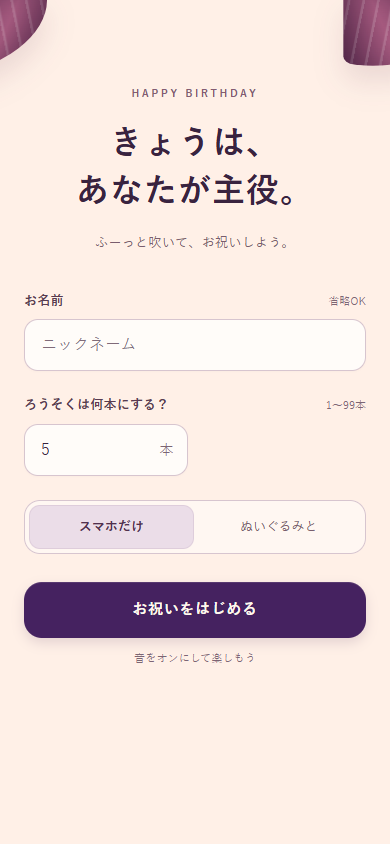
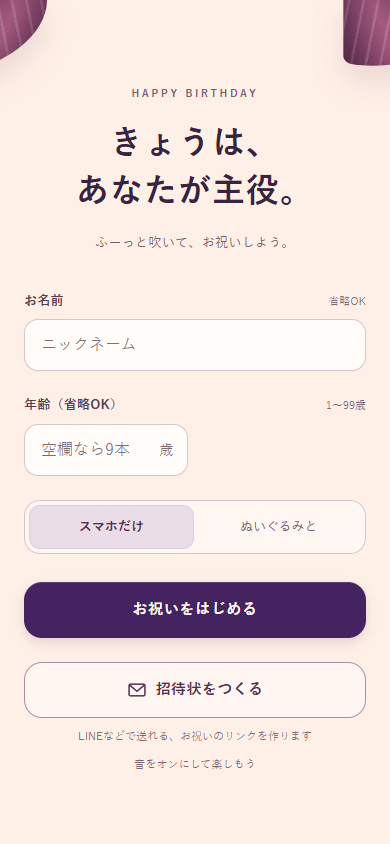
Unify invitation inputs and refine song recipient

diff --git a/test/app.test.js b/test/app.test.js
@@ -15,7 +15,9 @@ class Element {
     this.classes = new Set();
     this.classList = {add: c => this.classes.add(c), remove: c => this.classes.delete(c), contains: c => this.classes.has(c)};
   }
-  addEventListener(name, callback) { this.events[name] = callback; }
+  get textContent() { return this.children.length ? this.children.map(child => child.textContent ?? '').join('') : this._textContent; }
+  set textContent(value) { this._textContent = value; this.children = []; }
+  addEventListener(name, callback) { const previous = this.events[name]; this.events[name] = previous ? (...args) => { previous(...args); callback(...args); } : callback; }
   setAttribute(key, value) { this.attributes[key] = value; }
   append(child) { this.children.push(child); }
   replaceChildren(...children) { this.children = children; }
@@ -24,6 +26,8 @@ class Element {
 function harness(getUserMedia, withAudio = true, songDuration = 0, pageUrl = 'https://example.com/happybirthday-tome/', withMessages = false) {
   const els = new Map();
   const get = id => { if (!els.has(id)) els.set(id, new Element()); return els.get(id); };
+  get('song-recipient').append(get('recipient-name'));
+  get('song-recipient').append(get('recipient-suffix'));
   const raf = new Map();
   const timers = new Map();
   const contexts = [];
@@ -154,7 +158,7 @@ test('hide releases microphone; explicit resume keeps remaining candle count', a
   const mics = [microphone(), microphone()]; let index = 0;
   const app = harness(() => Promise.resolve(mics[index++].stream));
   app.submit(); await flush(); app.get('cake-button').click();
-  assert.equal(app.get('remaining').textContent, 3);
+  assert.equal(app.get('remaining').textContent, 6);
   app.hide();
   assert.equal(mics[0].track.stopped, true);
   assert.equal(app.contexts[0].state, 'closed');
@@ -162,7 +166,7 @@ test('hide releases microphone; explicit resume keeps remaining candle count', a
   assert.equal(app.requested(), 1);
   app.get('resume').click(); await flush();
   assert.equal(app.requested(), 2);
-  assert.equal(app.get('remaining').textContent, 3);
+  assert.equal(app.get('remaining').textContent, 6);
   assert.equal(app.get('cake-button').disabled, false);
 });
 test('microphone disconnection switches to taps', async () => {
@@ -264,7 +268,7 @@ test('song keeps microphone cues and detection off until the song ends', async (
   assert.equal(app.get('blow-cue').hidden, true);
   assert.equal(app.get('volume-area').hidden, true);
   app.frames(20, .5);
-  assert.equal(app.get('remaining').textContent, 5);
+  assert.equal(app.get('remaining').textContent, 9);
   app.runTimer(SONG.durationMs);
   assert.equal(app.get('blow-cue').hidden, false);
   assert.equal(app.get('volume-area').hidden, false);
@@ -283,6 +287,8 @@ test('plush mode needs no phone microphone and celebrates on the micro:bit timel
   assert.equal(app.get('song-lyrics').textContent, SONG.lyrics[0][1]);
   app.runTimer(6100);
   assert.equal(app.get('song-lyrics').textContent, SONG.lyrics[2][1].replace('{name}', 'けいこ'));
+  assert.equal(app.get('song-lyrics').children[1].className, 'lyric-name');
+  assert.equal(app.get('song-lyrics').children[1].textContent, 'けいこ');
   app.runTimer(PLUSH_SONG.durationMs + 100);
   assert.equal(app.get('song-lyrics').textContent, 'もうすぐ\nふーっ！');
   app.runTimer(PLUSH_SONG.durationMs + 1100);
@@ -466,11 +472,13 @@ test('completion message uses the entered name, replaces the wish copy, and caps
     if (name === 'けいこ') assert.match(message, /けいこさん/);
   }
 });
-test('reference copy is editable HTML, the candle count stays required, and bubble and count have one parent', async () => {
+test('reference copy uses a shared optional age field and a direct invitation action', async () => {
   const html = await readFile(new URL('../dist/index.html', import.meta.url), 'utf8');
-  for (const text of ['HAPPY BIRTHDAY', 'きょうは、', 'あなたが主役。', 'お名前', '省略OK', 'ろうそくは何本にする？', '1〜99本', 'お祝いをはじめる', '今日の主役へ', '願いごと、決まった？']) assert.ok(html.replace(/<[^>]+>/g, '').includes(text));
+  for (const text of ['HAPPY BIRTHDAY', 'きょうは、', 'あなたが主役。', 'お名前', '年齢（省略OK）', '1〜99歳', 'お祝いをはじめる', '招待状をつくる', 'LINEなどで送れる、お祝いのリンクを作ります', '今日の主役へ', '願いごと、決まった？']) assert.ok(html.replace(/<[^>]+>/g, '').includes(text));
   assert.doesNotMatch(html, /0〜120|パーティスタート|YOUR BIRTHDAY CAKE/);
-  assert.match(html, /id="count"[^>]*min="1"[^>]*max="99"[^>]*required/);
+  assert.match(html, /id="count"[^>]*type="text"[^>]*inputmode="numeric"/);
+  assert.doesNotMatch(html, /invite-name|invite-age|invite-maker|<details|id="count"[^>]*required/);
+  assert.match(html, /id="start"[\s\S]*id="invite-create"[\s\S]*<svg/);
   assert.match(html, /id="song-recipient"/);
   assert.match(html, /id="blow-cue"[^]*id="bubble"[^]*id="counter"[^]*id="remaining"/);
   assert.equal((code.match(/ui\['blow-cue'\]\.hidden =/g) || []).length, 1);
@@ -485,25 +493,41 @@ test('reference copy is editable HTML, the candle count stays required, and bubb
   assert.match(css, /--color-background:[^;]+;[\s\S]*--color-text:[^;]+;[\s\S]*--color-accent:[^;]+;[\s\S]*--color-emphasis:[^;]+;/);
 });
 
-test('sender creates an encoded invitation without changing the required personal count', () => {
+test('shared fields create an encoded invitation and reject invalid ages', () => {
   const app = harness(() => { throw new Error('not needed'); });
-  app.get('invite-name').value = ' A&B ';
-  app.get('invite-age').value = '49';
+  app.name(' A&B ');
+  app.count(49);
+  app.get('mode-plush').checked = true;
   app.get('invite-create').click();
   assert.equal(app.get('invite-link').value, 'https://example.com/happybirthday-tome/invite.html#name=A%26B&age=49');
   assert.equal(app.get('invite-result').hidden, false);
-  app.get('invite-age').value = '1.5';
+  app.count('1.5');
   app.get('invite-create').click();
   assert.equal(app.get('invite-result').hidden, true);
-  assert.match(app.get('invite-error').textContent, /1〜99/);
-  assert.equal(app.get('count').value, '5');
+  assert.match(app.get('age-error').textContent, /1〜99/);
+  app.count('');
+  app.get('invite-create').click();
+  assert.equal(app.get('invite-link').value, 'https://example.com/happybirthday-tome/invite.html#name=A%26B');
+  assert.equal(app.document.body.dataset.scene, 'entry');
   assert.equal(app.requested(), 0);
+});
+
+test('blank age starts with nine candles, while a typed invalid age blocks the celebration', () => {
+  const blank = harness(() => Promise.reject());
+  blank.submit();
+  assert.equal(blank.get('candles').children.length, 9);
+  assert.equal(blank.document.body.dataset.scene, 'song');
+  const invalid = harness(() => Promise.reject());
+  invalid.count('100');
+  invalid.submit();
+  assert.equal(invalid.document.body.dataset.scene, 'entry');
+  assert.equal(invalid.get('age-error').hidden, false);
+  assert.equal(invalid.requested(), 0);
 });
 
 test('invitation never requests the microphone, keeps its recipient on reset, and clears nine default candles in three taps', () => {
   const app = harness(() => { throw new Error('invite must not request microphone'); }, true, 0, 'https://example.com/happybirthday-tome/invite.html#name=%E3%81%91%E3%81%84%E3%81%93');
   assert.equal(app.get('setup').hidden, true);
-  assert.equal(app.get('invite-maker').hidden, true);
   assert.equal(app.get('invite-card').hidden, false);
   assert.equal(app.get('invite-recipient').textContent, 'けいこさんへ');
   assert.equal(app.get('candles').children.length, 9);

diff --git a/dist/index.html b/dist/index.html
@@ -32,20 +32,13 @@
     <section class="message-card" aria-label="誕生日の準備とメッセージ">
       <form id="setup" autocomplete="off">
         <div class="field"><label for="name">お名前 <span>省略OK</span></label><input id="name" type="text" maxlength="30" autocomplete="off" spellcheck="false" placeholder="ニックネーム"></div>
-        <div class="field"><label for="count">ろうそくは何本にする？ <span>1〜99本</span></label><div class="number-field"><input id="count" type="number" min="1" max="99" step="1" value="5" inputmode="numeric" required autocomplete="off" aria-label="ろうそくの本数"><span>本</span></div></div><fieldset class="mode-switch"><legend>パーティーの相手</legend><label><input id="mode-phone" name="play-mode" type="radio" value="phone" checked><span>スマホだけ</span></label><label><input id="mode-plush" name="play-mode" type="radio" value="plush"><span>ぬいぐるみと</span></label></fieldset>
+        <div class="field"><label for="count">年齢（省略OK） <span>1〜99歳</span></label><div class="number-field"><input id="count" type="text" inputmode="numeric" autocomplete="off" aria-label="年齢" placeholder="空欄なら9本"><span>歳</span></div><p id="age-error" class="age-error" role="alert" hidden></p></div><fieldset class="mode-switch"><legend>パーティーの相手</legend><label><input id="mode-phone" name="play-mode" type="radio" value="phone" checked><span>スマホだけ</span></label><label><input id="mode-plush" name="play-mode" type="radio" value="plush"><span>ぬいぐるみと</span></label></fieldset>
         <button id="start" class="primary" type="submit">お祝いをはじめる</button>
+        <button id="invite-create" class="secondary invite-create" type="button"><svg viewBox="0 0 24 24" width="20" height="20" fill="none" stroke="currentColor" stroke-width="1.8" stroke-linecap="round" stroke-linejoin="round" aria-hidden="true"><rect x="2.5" y="5" width="19" height="14" rx="2"/><path d="m3.5 6.5 8.5 7 8.5-7"/></svg><span>招待状をつくる</span></button>
+        <p class="invite-description">LINEなどで送れる、お祝いのリンクを作ります</p>
+        <div id="invite-result" class="invite-result" hidden><label for="invite-link">招待状リンク</label><input id="invite-link" type="url" readonly><div class="invite-actions"><button id="invite-share" type="button" class="secondary" hidden>共有する</button><button id="invite-copy" type="button" class="secondary">コピー</button><button id="invite-try" type="button" class="secondary">自分で試す</button></div><p id="invite-feedback" class="invite-feedback" role="status" aria-live="polite"></p></div>
         <p class="sound-hint">音をオンにして楽しもう</p>
       </form>
-      <details id="invite-maker" class="invite-maker">
-        <summary>お持ち帰り用の招待状をつくる</summary>
-        <div class="invite-maker-content">
-          <div class="field"><label for="invite-name">お名前 <span>省略OK</span></label><input id="invite-name" type="text" maxlength="30" autocomplete="off" spellcheck="false" placeholder="お祝いする人の名前"><p class="field-note">「さん」は自動でつきます</p></div>
-          <div class="field"><label for="invite-age">年齢 <span>省略OK・1〜99歳</span></label><input id="invite-age" type="text" inputmode="numeric" autocomplete="off" placeholder="わからなければ空欄でOK"></div>
-          <button id="invite-create" class="secondary invite-create" type="button">リンクをつくる</button>
-          <p id="invite-error" class="invite-error" role="alert" hidden></p>
-          <div id="invite-result" class="invite-result" hidden><label for="invite-link">招待状リンク</label><input id="invite-link" type="url" readonly><div class="invite-actions"><button id="invite-share" type="button" class="secondary" hidden>共有する</button><button id="invite-copy" type="button" class="secondary">コピー</button><button id="invite-try" type="button" class="secondary">自分で試す</button></div><p id="invite-feedback" class="invite-feedback" role="status" aria-live="polite"></p></div>
-        </div>
-      </details>
       <div id="invite-card" class="invite-card" hidden><p class="invite-kicker">A LITTLE CELEBRATION FOR YOU</p><h1 id="invite-recipient">あなたへ</h1><p class="invite-intro">お誕生日のお祝いが届いています</p><img class="invite-cake" src="./assets/cake-base-v2.png" alt="" aria-hidden="true"><button id="invite-open" class="primary" type="button">お祝いをひらく</button><p class="invite-sound-hint">音をオンにして楽しんでね</p></div>
       <div id="started" class="started" hidden>
         <div class="card-copy">
@@ -56,7 +49,7 @@
     </section>
     <section class="stage" aria-label="バースデーケーキ">
       <div id="scene-copy" class="scene-copy" aria-live="polite"><div id="plush-prepare" class="plush-prepare" hidden><p><span>スマホをぬいぐるみの</span><span>そばに置いてね</span></p><button id="plush-pop" class="primary" type="button" aria-label="クラッカーを鳴らして、お祝いをはじめる"><img src="./assets/party-popper.svg" width="72" height="72" alt="" aria-hidden="true"><span>タップ</span></button><p class="plush-tip">音量を上げてからタップ</p></div>
-        <p id="song-recipient" class="song-recipient" hidden>あなたへ</p>
+        <p id="song-recipient" class="song-recipient" hidden><span id="recipient-name">あなた</span><span id="recipient-suffix">へ</span></p>
         <p id="song-lyrics" class="song-lyrics" hidden>歌詞はここに表示</p>
         <p id="plush-blow-note" class="plush-blow-note" hidden><span>ケーキの上の micro:bit に</span><span>息を吹きかけてね</span></p>
         <div id="blackout-copy" class="blackout-copy" hidden>しーっ。願いごとの時間。</div>

diff --git a/dist/invite.html b/dist/invite.html
@@ -34,20 +34,13 @@
     <section class="message-card" aria-label="誕生日の準備とメッセージ">
       <form id="setup" autocomplete="off">
         <div class="field"><label for="name">お名前 <span>省略OK</span></label><input id="name" type="text" maxlength="30" autocomplete="off" spellcheck="false" placeholder="ニックネーム"></div>
-        <div class="field"><label for="count">ろうそくは何本にする？ <span>1〜99本</span></label><div class="number-field"><input id="count" type="number" min="1" max="99" step="1" value="5" inputmode="numeric" required autocomplete="off" aria-label="ろうそくの本数"><span>本</span></div></div><fieldset class="mode-switch"><legend>パーティーの相手</legend><label><input id="mode-phone" name="play-mode" type="radio" value="phone" checked><span>スマホだけ</span></label><label><input id="mode-plush" name="play-mode" type="radio" value="plush"><span>ぬいぐるみと</span></label></fieldset>
+        <div class="field"><label for="count">年齢（省略OK） <span>1〜99歳</span></label><div class="number-field"><input id="count" type="text" inputmode="numeric" autocomplete="off" aria-label="年齢" placeholder="空欄なら9本"><span>歳</span></div><p id="age-error" class="age-error" role="alert" hidden></p></div><fieldset class="mode-switch"><legend>パーティーの相手</legend><label><input id="mode-phone" name="play-mode" type="radio" value="phone" checked><span>スマホだけ</span></label><label><input id="mode-plush" name="play-mode" type="radio" value="plush"><span>ぬいぐるみと</span></label></fieldset>
         <button id="start" class="primary" type="submit">お祝いをはじめる</button>
+        <button id="invite-create" class="secondary invite-create" type="button"><svg viewBox="0 0 24 24" width="20" height="20" fill="none" stroke="currentColor" stroke-width="1.8" stroke-linecap="round" stroke-linejoin="round" aria-hidden="true"><rect x="2.5" y="5" width="19" height="14" rx="2"/><path d="m3.5 6.5 8.5 7 8.5-7"/></svg><span>招待状をつくる</span></button>
+        <p class="invite-description">LINEなどで送れる、お祝いのリンクを作ります</p>
+        <div id="invite-result" class="invite-result" hidden><label for="invite-link">招待状リンク</label><input id="invite-link" type="url" readonly><div class="invite-actions"><button id="invite-share" type="button" class="secondary" hidden>共有する</button><button id="invite-copy" type="button" class="secondary">コピー</button><button id="invite-try" type="button" class="secondary">自分で試す</button></div><p id="invite-feedback" class="invite-feedback" role="status" aria-live="polite"></p></div>
         <p class="sound-hint">音をオンにして楽しもう</p>
       </form>
-      <details id="invite-maker" class="invite-maker">
-        <summary>お持ち帰り用の招待状をつくる</summary>
-        <div class="invite-maker-content">
-          <div class="field"><label for="invite-name">お名前 <span>省略OK</span></label><input id="invite-name" type="text" maxlength="30" autocomplete="off" spellcheck="false" placeholder="お祝いする人の名前"><p class="field-note">「さん」は自動でつきます</p></div>
-          <div class="field"><label for="invite-age">年齢 <span>省略OK・1〜99歳</span></label><input id="invite-age" type="text" inputmode="numeric" autocomplete="off" placeholder="わからなければ空欄でOK"></div>
-          <button id="invite-create" class="secondary invite-create" type="button">リンクをつくる</button>
-          <p id="invite-error" class="invite-error" role="alert" hidden></p>
-          <div id="invite-result" class="invite-result" hidden><label for="invite-link">招待状リンク</label><input id="invite-link" type="url" readonly><div class="invite-actions"><button id="invite-share" type="button" class="secondary" hidden>共有する</button><button id="invite-copy" type="button" class="secondary">コピー</button><button id="invite-try" type="button" class="secondary">自分で試す</button></div><p id="invite-feedback" class="invite-feedback" role="status" aria-live="polite"></p></div>
-        </div>
-      </details>
       <div id="invite-card" class="invite-card" hidden><p class="invite-kicker">A LITTLE CELEBRATION FOR YOU</p><h1 id="invite-recipient">あなたへ</h1><p class="invite-intro">お誕生日のお祝いが届いています</p><img class="invite-cake" src="./assets/cake-base-v2.png" alt="" aria-hidden="true"><button id="invite-open" class="primary" type="button">お祝いをひらく</button><p class="invite-sound-hint">音をオンにして楽しんでね</p></div>
       <div id="started" class="started" hidden>
         <div class="card-copy">
@@ -58,7 +51,7 @@
     </section>
     <section class="stage" aria-label="バースデーケーキ">
       <div id="scene-copy" class="scene-copy" aria-live="polite"><div id="plush-prepare" class="plush-prepare" hidden><p><span>スマホをぬいぐるみの</span><span>そばに置いてね</span></p><button id="plush-pop" class="primary" type="button" aria-label="クラッカーを鳴らして、お祝いをはじめる"><img src="./assets/party-popper.svg" width="72" height="72" alt="" aria-hidden="true"><span>タップ</span></button><p class="plush-tip">音量を上げてからタップ</p></div>
-        <p id="song-recipient" class="song-recipient" hidden>あなたへ</p>
+        <p id="song-recipient" class="song-recipient" hidden><span id="recipient-name">あなた</span><span id="recipient-suffix">へ</span></p>
         <p id="song-lyrics" class="song-lyrics" hidden>歌詞はここに表示</p>
         <p id="plush-blow-note" class="plush-blow-note" hidden><span>ケーキの上の micro:bit に</span><span>息を吹きかけてね</span></p>
         <div id="blackout-copy" class="blackout-copy" hidden>しーっ。願いごとの時間。</div>

diff --git a/dist/style.css b/dist/style.css
@@ -145,6 +145,11 @@ body[data-scene="plush-prepare"]::before { background: radial-gradient(ellipse a
 .party[data-scene="song"] .scene-copy { top: max(84px, calc(env(safe-area-inset-top) + 45px)); }
 .party[data-scene="song"]::before, .party[data-scene="song"]::after { height: 80px; }
 .song-lyrics { font-size: clamp(27px, 7.6vw, 34px); letter-spacing: .035em; }
+.song-recipient { position: relative; left: 50%; width: calc(100vw - 16px); max-width: 414px; margin: 0 0 12px; transform: translateX(-50%); font-size: 36px; font-weight: 900; line-height: 1.22; letter-spacing: -.035em; overflow-wrap: anywhere; text-wrap: balance; }
+.song-recipient[data-name-length="medium"] { font-size: 28px; }
+.song-recipient[data-name-length="long"] { font-size: 22px; letter-spacing: -.045em; }
+.song-recipient #recipient-suffix { font-size: .6em; font-weight: 900; white-space: nowrap; }
+.song-lyrics .lyric-name { font-style: normal; font-weight: 900; }
 /* Confetti bursts from one point below the copy, rather than forming a line over it. */
 .plush-confetti { z-index: 4; }
 .plush-confetti span { top: 26%; left: 50%; opacity: 0; background: #ffd56d; }
@@ -169,19 +174,13 @@ body[data-scene="plush-prepare"]::before { background: radial-gradient(ellipse a
 @media (min-height: 741px) { .party[data-scene="song"] .scene-copy { top: clamp(145px, 20svh, 185px); } }
 @media (max-height: 740px) { .party:not([data-scene="entry"]) { --stage-cake-top: 300px; } }
 
-/* A quiet second path on the sender's page; the invite itself needs one clear action. */
-.invite-maker { margin-top: 22px; padding-top: 18px; border-top: 1px solid #dbc9cf; }
-.invite-maker summary { color: #67445d; font-size: 13px; font-weight: 700; line-height: 1.5; cursor: pointer; text-align: center; }
-.invite-maker summary:focus-visible { outline: 2px solid #896480; outline-offset: 4px; }
-.invite-maker-content { display: grid; gap: 18px; padding: 20px 0 10px; }
-.invite-maker .field { gap: 8px; }
-.invite-maker .field label { color: #593b50; font-size: 13px; font-weight: 600; }
-.invite-maker .field label span, .field-note { color: #7c6574; font-size: 11px; font-weight: 400; }
-.invite-maker .field input { height: 52px; border-color: #d7c5cf; border-radius: 14px; background: #fffcf9; box-shadow: none; }
-.invite-maker .field input:focus { border-color: #896480; outline: 2px solid rgba(137,100,128,.22); outline-offset: 2px; }
-.field-note, .invite-error, .invite-feedback { margin: 0; line-height: 1.5; }
-.invite-error { color: #9d3158; font-size: 12px; font-weight: 700; }
-.invite-create { border: 1px solid #d5bed1; background: #f8edf3; box-shadow: none; color: #51304e; }
+/* The shared name and age fields feed either celebration or invitation. */
+.age-error, .invite-feedback { margin: 0; line-height: 1.5; }
+.age-error { color: #9d3158; font-size: 12px; font-weight: 700; }
+.field input[aria-invalid="true"] { border-color: #9d3158; }
+.invite-create { display: flex; align-items: center; justify-content: center; gap: 9px; min-height: 56px; border: 1px solid #a98da8; border-radius: 18px; background: rgba(255,250,249,.55); box-shadow: none; color: #51304e; font-weight: 700; }
+.invite-create svg { flex: none; }
+.invite-description { margin: -14px 0 0; color: #806a77; font-size: 11px; line-height: 1.5; text-align: center; }
 .invite-result { display: grid; gap: 10px; padding: 16px; border: 1px solid #ddcad2; border-radius: 16px; background: rgba(255,252,249,.72); }
 .invite-result label { color: #593b50; font-size: 12px; font-weight: 700; }
 .invite-result input { height: 44px; padding: 0 10px; box-shadow: none; font-family: Arial, sans-serif; font-size: 12px; }
